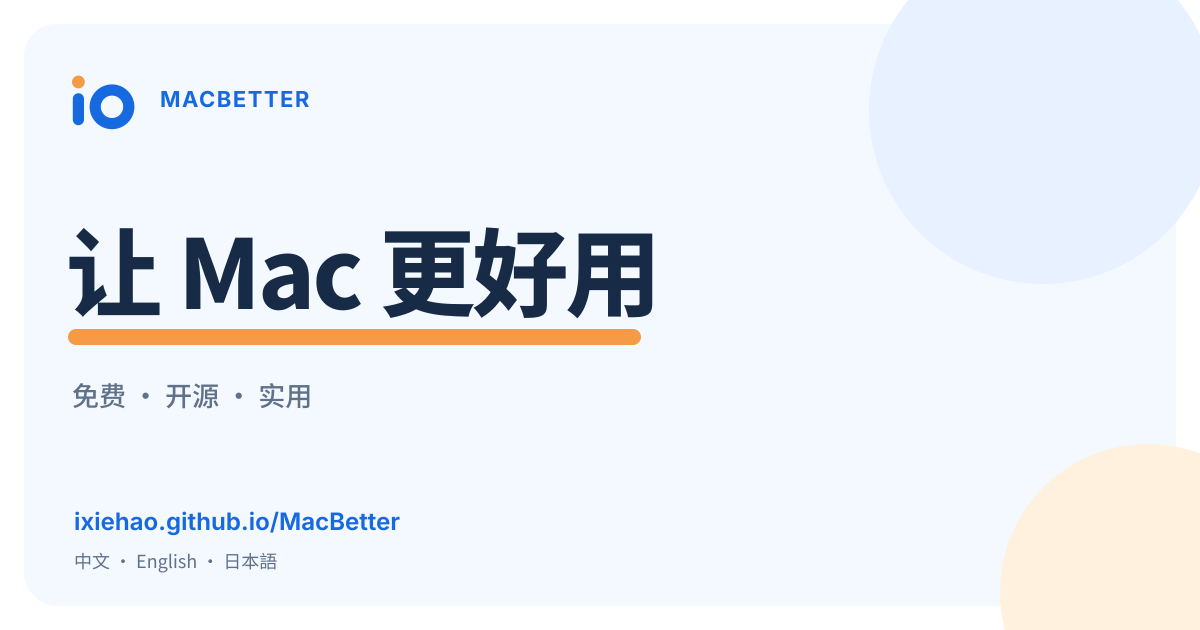
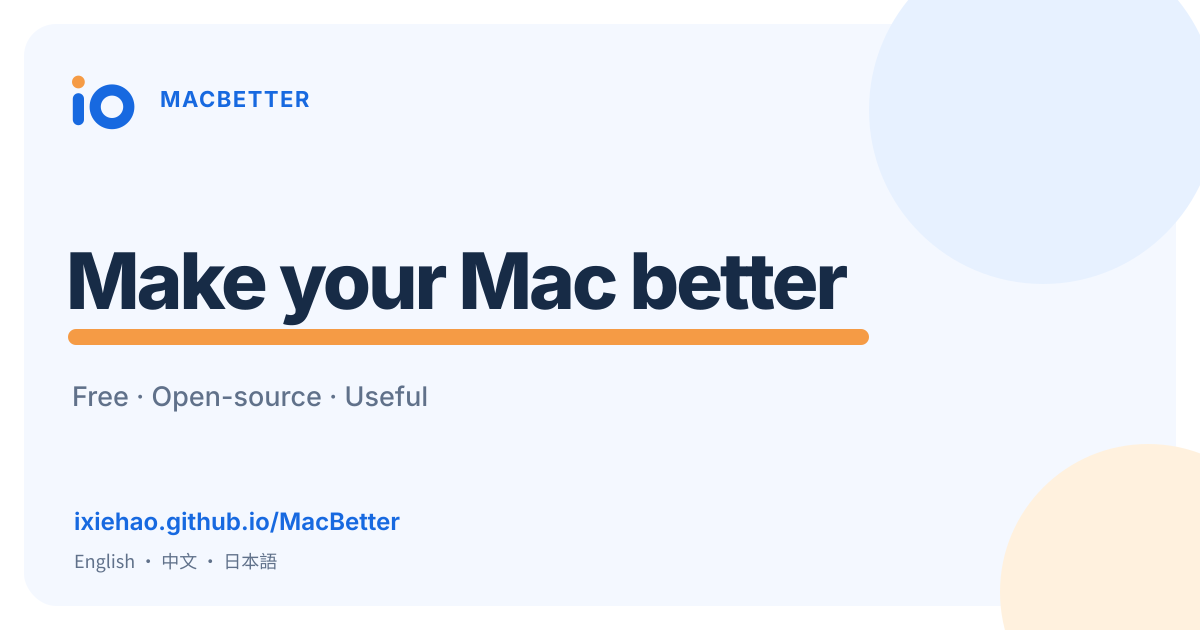
Make English the default website language

Changed region(s): [[0.0308, 0.3619, 0.74, 0.573], [0.0617, 0.6032, 0.37, 0.6635], [0.0617, 0.8746, 0.185, 0.9048]]

diff --git a/website/index.html b/website/index.html
@@ -1,62 +1,62 @@
 <!doctype html>
-<html lang="zh-CN">
+<html lang="en">
   <head>
     <meta charset="utf-8" />
     <meta name="viewport" content="width=device-width, initial-scale=1" />
     <meta name="theme-color" content="#1769e0" />
-    <meta name="description" content="一个由 Mac 用户共同维护的开源 macOS 软件目录：免费、开源、实用，并标明许可证、项目入口与关键权限。" />
+    <meta name="description" content="A maintained, practical directory of free and open-source macOS apps, with licenses, official links, and key permission notes." />
     <meta name="robots" content="index,follow" />
-    <title>让 Mac 更好用 · MAC免费开源软件</title>
+    <title>Make Your Mac Better · Open-Source macOS Apps</title>
     <link rel="canonical" href="https://ixiehao.github.io/MacBetter/" />
-    <link rel="alternate" hreflang="zh-CN" href="https://ixiehao.github.io/MacBetter/" />
-    <link rel="alternate" hreflang="en" href="https://ixiehao.github.io/MacBetter/?lang=en" />
+    <link rel="alternate" hreflang="zh-CN" href="https://ixiehao.github.io/MacBetter/?lang=zh" />
+    <link rel="alternate" hreflang="en" href="https://ixiehao.github.io/MacBetter/" />
     <link rel="alternate" hreflang="ja" href="https://ixiehao.github.io/MacBetter/?lang=ja" />
     <link rel="alternate" hreflang="x-default" href="https://ixiehao.github.io/MacBetter/" />
     <meta property="og:type" content="website" />
-    <meta property="og:site_name" content="让 Mac 更好用" />
-    <meta property="og:locale" content="zh_CN" />
+    <meta property="og:site_name" content="Make Your Mac Better" />
+    <meta property="og:locale" content="en_US" />
     <meta property="og:url" content="https://ixiehao.github.io/MacBetter/" />
-    <meta property="og:title" content="让 Mac 更好用 · MAC免费开源软件" />
-    <meta property="og:description" content="免费、开源、实用的 macOS 软件目录：标明许可证、项目入口与关键权限。" />
-    <meta property="og:image" content="https://ixiehao.github.io/MacBetter/assets/social-card.png?v=0ba486a273d8" />
+    <meta property="og:title" content="Make Your Mac Better · Open-Source macOS Apps" />
+    <meta property="og:description" content="A maintained, practical directory of free and open-source macOS apps, with licenses, official links, and key permission notes." />
+    <meta property="og:image" content="https://ixiehao.github.io/MacBetter/assets/social-card.png?v=5ddb92786990" />
     <meta property="og:image:width" content="1200" />
     <meta property="og:image:height" content="630" />
-    <meta property="og:image:alt" content="让 Mac 更好用：开源 macOS 软件目录" />
+    <meta property="og:image:alt" content="Make Your Mac Better · Open-Source macOS Apps" />
     <meta name="twitter:card" content="summary_large_image" />
-    <meta name="twitter:title" content="让 Mac 更好用 · MAC免费开源软件" />
-    <meta name="twitter:description" content="免费、开源、实用的 macOS 软件目录。" />
-    <meta name="twitter:image" content="https://ixiehao.github.io/MacBetter/assets/social-card.png?v=0ba486a273d8" />
-    <meta name="twitter:image:alt" content="让 Mac 更好用：开源 macOS 软件目录" />
+    <meta name="twitter:title" content="Make Your Mac Better · Open-Source macOS Apps" />
+    <meta name="twitter:description" content="A maintained, practical directory of free and open-source macOS apps, with licenses, official links, and key permission notes." />
+    <meta name="twitter:image" content="https://ixiehao.github.io/MacBetter/assets/social-card.png?v=5ddb92786990" />
+    <meta name="twitter:image:alt" content="Make Your Mac Better · Open-Source macOS Apps" />
     <link rel="icon" href="assets/favicon.ico?v=8e1fa67b8441" sizes="16x16 32x32 48x48" />
     <link rel="icon" href="assets/favicon-32.png?v=477145e2e865" type="image/png" sizes="32x32" />
     <link rel="apple-touch-icon" href="assets/favicon-180.png?v=a3d8e4df484e" sizes="180x180" />
     <link rel="icon" href="assets/favicon.svg?v=a3cf2091a95f" type="image/svg+xml" sizes="any" />
-    <link rel="manifest" href="site.webmanifest?v=924df44e6f8d" />
+    <link rel="manifest" href="site.webmanifest?v=8a213433e14f" />
     <link rel="preconnect" href="https://github.com" />
     <link rel="preload" href="assets/fonts/InterVariable.woff2?v=693b77d4f32e" as="font" type="font/woff2" crossorigin />
     <link rel="stylesheet" href="styles.css?v=8796e3af0f57" />
     <script id="site-schema" type="application/ld+json">
-      {"@context":"https://schema.org","@type":"WebSite","@id":"https://ixiehao.github.io/MacBetter/#website","url":"https://ixiehao.github.io/MacBetter/","name":"让 Mac 更好用","alternateName":["MAC免费开源软件","Make Your Mac Better","Macアプリ集"],"description":"一个由 Mac 用户共同维护的开源 macOS 软件目录。","inLanguage":["zh-CN","en","ja"],"publisher":{"@type":"Person","name":"iXiehao","url":"https://github.com/ixiehao"}}
+      {"@context":"https://schema.org","@type":"WebSite","@id":"https://ixiehao.github.io/MacBetter/#website","url":"https://ixiehao.github.io/MacBetter/","name":"Make Your Mac Better","alternateName":["MAC免费开源软件","Make Your Mac Better","Macアプリ集"],"description":"A maintained, practical directory of free and open-source macOS apps, with licenses, official links, and key permission notes.","inLanguage":["en","zh-CN","ja"],"publisher":{"@type":"Person","name":"iXiehao","url":"https://github.com/ixiehao"}}
     </script>
   </head>
   <body>
-    <a class="skip-link" href="#catalog" data-i18n="skipLink">跳到软件目录</a>
+    <a class="skip-link" href="#catalog" data-i18n="skipLink">Skip to app directory</a>
 
     <header class="site-header">
       <div class="shell nav-wrap">
-        <a class="wordmark" href="#top" aria-label="MAC免费开源软件，返回顶部" data-i18n-aria-label="wordmarkAria">
+        <a class="wordmark" href="#top" aria-label="Mac app directory — back to top" data-i18n-aria-label="wordmarkAria">
           <img class="wordmark-mark" src="assets/site-mark.svg?v=f0c52f0145bc" alt="" width="42" height="42" />
-          <span class="wordmark-copy"><span class="wordmark-name" data-i18n="wordmark">MAC免费开源软件</span><span class="wordmark-subtitle" data-i18n="brandMeaning">i 代表独立开发者，o 代表开源建设者。</span></span>
+          <span class="wordmark-copy"><span class="wordmark-name" data-i18n="wordmark">Free &amp; Open-Source Mac Apps</span><span class="wordmark-subtitle" data-i18n="brandMeaning">i for independent developer; o for open-source builder.</span></span>
         </a>
-        <nav aria-label="主导航" data-i18n-aria-label="navLabel">
-          <a class="nav-contribute" href="#contribute" data-i18n="navContribute">推荐软件</a>
-          <a href="#catalog" data-i18n="navCatalog">软件目录</a>
-          <a href="#standards" data-i18n="navStandards">开源说明</a>
-          <a class="nav-github" href="https://github.com/ixiehao/MacBetter" target="_blank" rel="noreferrer"><span data-i18n="navGithub">在 GitHub 共建</span><svg class="ui-icon" aria-hidden="true"><use href="assets/tabler-icons.svg#brand-github"></use></svg></a>
+        <nav aria-label="Page navigation" data-i18n-aria-label="navLabel">
+          <a class="nav-contribute" href="#contribute" data-i18n="navContribute">Recommend an app</a>
+          <a href="#catalog" data-i18n="navCatalog">All apps</a>
+          <a href="#standards" data-i18n="navStandards">Open-source guide</a>
+          <a class="nav-github" href="https://github.com/ixiehao/MacBetter" target="_blank" rel="noreferrer"><span data-i18n="navGithub">Contribute on GitHub</span><svg class="ui-icon" aria-hidden="true"><use href="assets/tabler-icons.svg#brand-github"></use></svg></a>
         </nav>
-        <div class="language-switcher" role="group" aria-label="选择语言" data-i18n-aria-label="languageLabel">
-          <button type="button" data-language="en" lang="en" aria-pressed="false">EN</button>
-          <button type="button" data-language="zh" lang="zh-CN" aria-pressed="true">中</button>
+        <div class="language-switcher" role="group" aria-label="Choose language" data-i18n-aria-label="languageLabel">
+          <button type="button" data-language="en" lang="en" aria-pressed="true">EN</button>
+          <button type="button" data-language="zh" lang="zh-CN" aria-pressed="false">中</button>
           <button type="button" data-language="ja" lang="ja" aria-pressed="false">日</button>
         </div>
         <p class="visually-hidden" id="language-status" aria-live="polite"></p>
@@ -67,12 +67,12 @@
       <section class="hero-band" id="contribute">
         <div class="shell hero-layout">
           <div class="hero-copy">
-            <p class="eyebrow" data-i18n="communityEyebrow">共同推荐</p>
-            <h1 data-i18n="communityHeading">让 Mac 更好用</h1>
-            <p class="community-copy" data-i18n="communityCopy">从推荐一款你真正用过的开源软件开始。</p>
-            <div class="hero-stats" aria-label="目录概况" data-i18n-aria-label="heroStatsLabel">
-              <div><strong id="app-total">88</strong><span data-i18n="statApps">款开源软件</span></div>
-              <div><strong id="category-total">9</strong><span data-i18n="statCategories">个用途分类</span></div>
+            <p class="eyebrow" data-i18n="communityEyebrow">macOS · OPEN-SOURCE APP DIRECTORY</p>
+            <h1 data-i18n="communityHeading">Make your Mac better</h1>
+            <p class="community-copy" data-i18n="communityCopy">Free, open-source apps organized by task—with official links, licenses, and real-world notes.</p>
+            <div class="hero-stats" aria-label="Directory overview" data-i18n-aria-label="heroStatsLabel">
+              <div><strong id="app-total">88</strong><span data-i18n="statApps">open-source apps</span></div>
+              <div><strong id="category-total">9</strong><span data-i18n="statCategories">useful categories</span></div>
             </div>
           </div>
           <aside class="submit-card" aria-labelledby="submit-heading">
@@ -80,17 +80,17 @@
               <span class="submit-icon" aria-hidden="true">
                 <svg class="ui-icon" aria-hidden="true"><use href="assets/tabler-icons.svg#pencil"></use></svg>
               </span>
-              <div><p class="submit-kicker" data-i18n="submitKicker">社区共建</p><h2 id="submit-heading" data-i18n="submitHeading">好工具，等你推荐。</h2></div>
+              <div><p class="submit-kicker" data-i18n="submitKicker">COMMUNITY PICKS</p><h2 id="submit-heading" data-i18n="submitHeading">Know a good Mac app?</h2></div>
             </div>
-            <p class="submit-copy" data-i18n="communityInstructions">提交项目链接、许可证和真实使用场景，我们会核对公开信息。</p>
+            <p class="submit-copy" data-i18n="communityInstructions">Share the project link, license, and the problem it solves. We check public details before listing.</p>
             <div class="community-action">
-              <a class="button button-community" href="https://github.com/ixiehao/MacBetter/issues/new?template=recommend-an-app.yml" target="_blank" rel="noreferrer"><span data-i18n="recommendApp">推荐一款软件</span><svg class="ui-icon" aria-hidden="true"><use href="assets/tabler-icons.svg#message-plus"></use></svg></a>
-              <a class="community-rules" href="https://github.com/ixiehao/MacBetter/blob/main/CONTRIBUTING.md" target="_blank" rel="noreferrer"><span data-i18n="viewCriteria">收录标准</span><svg class="ui-icon" aria-hidden="true"><use href="assets/tabler-icons.svg#list-check"></use></svg></a>
+              <a class="button button-community" href="https://github.com/ixiehao/MacBetter/issues/new?template=recommend-an-app.yml" target="_blank" rel="noreferrer"><span data-i18n="recommendApp">Recommend an app</span><svg class="ui-icon" aria-hidden="true"><use href="assets/tabler-icons.svg#message-plus"></use></svg></a>
+              <a class="community-rules" href="https://github.com/ixiehao/MacBetter/blob/main/CONTRIBUTING.md" target="_blank" rel="noreferrer"><span data-i18n="viewCriteria">View submission criteria</span><svg class="ui-icon" aria-hidden="true"><use href="assets/tabler-icons.svg#list-check"></use></svg></a>
             </div>
-            <ul class="contribution-steps" aria-label="推荐软件需要的信息" data-i18n-aria-label="contributionStepsLabel">
-              <li><span>01</span><strong data-i18n="contribution.sourceTitle">项目地址</strong></li>
-              <li><span>02</span><strong data-i18n="contribution.licenseTitle">开源许可证</strong></li>
-              <li><span>03</span><strong data-i18n="contribution.reasonTitle">推荐理由</strong></li>
+            <ul class="contribution-steps" aria-label="What to include with an app recommendation" data-i18n-aria-label="contributionStepsLabel">
+              <li><span>01</span><strong data-i18n="contribution.sourceTitle">Project source</strong></li>
+              <li><span>02</span><strong data-i18n="contribution.licenseTitle">Open-source license</strong></li>
+              <li><span>03</span><strong data-i18n="contribution.reasonTitle">Why you recommend it</strong></li>
             </ul>
           </aside>
         </div>
@@ -100,34 +100,34 @@
         <div class="shell catalog-shell">
           <div class="section-heading catalog-heading">
             <div>
-              <p class="eyebrow" data-i18n="catalogEyebrow">开源 Mac 软件</p>
-              <h2 data-i18n="catalogHeading">软件目录</h2>
+              <p class="eyebrow" data-i18n="catalogEyebrow">Open-source Mac apps</p>
+              <h2 data-i18n="catalogHeading">App directory</h2>
             </div>
-            <p data-i18n="catalogCopy">按用途查找；每项标明许可证与 io 实测状态。</p>
+            <p data-i18n="catalogCopy">Browse by task. Each listing shows its license and whether io has tested it.</p>
           </div>
 
-          <div class="catalog-controls" role="search" aria-label="搜索和筛选软件" data-i18n-aria-label="catalogControlsLabel">
+          <div class="catalog-controls" role="search" aria-label="Search and filter apps" data-i18n-aria-label="catalogControlsLabel">
             <label class="search-box" for="search-input">
               <svg class="ui-icon" aria-hidden="true"><use href="assets/tabler-icons.svg#search"></use></svg>
-              <input id="search-input" type="search" autocomplete="off" placeholder="搜索名称、用途或标签" aria-label="搜索软件目录" aria-keyshortcuts="Meta+K Control+K" data-i18n-placeholder="searchPlaceholder" data-i18n-aria-label="searchLabel" />
+              <input id="search-input" type="search" autocomplete="off" placeholder="Search apps, features, or tags" aria-label="Search the app directory" aria-keyshortcuts="Meta+K Control+K" data-i18n-placeholder="searchPlaceholder" data-i18n-aria-label="searchLabel" />
               <kbd>⌘ K</kbd>
             </label>
-            <label class="status-filter" for="tested-filter"><input id="tested-filter" type="checkbox" /> <span class="status-dot" aria-hidden="true"></span><span data-i18n="testedFilter">仅显示 io 实测</span></label>
+            <label class="status-filter" for="tested-filter"><input id="tested-filter" type="checkbox" /> <span class="status-dot" aria-hidden="true"></span><span data-i18n="testedFilter">Show apps tested by io</span></label>
           </div>
 
-          <div class="filter-row" id="category-filters" role="group" aria-label="软件分类" data-i18n-aria-label="appCategoriesLabel"></div>
+          <div class="filter-row" id="category-filters" role="group" aria-label="App categories" data-i18n-aria-label="appCategoriesLabel"></div>
           <div class="results-heading">
             <p class="result-count" id="result-count" aria-live="polite"></p>
             <div class="catalog-actions">
-              <button class="results-share" id="share-directory" type="button"><svg class="ui-icon" aria-hidden="true"><use href="assets/tabler-icons.svg#share"></use></svg><span data-i18n="shareDirectory">分享目录</span></button>
-              <a class="results-recommend" href="https://github.com/ixiehao/MacBetter/issues/new?template=recommend-an-app.yml" target="_blank" rel="noreferrer"><span data-i18n="recommendInline">推荐一款好软件</span><svg class="ui-icon" aria-hidden="true"><use href="assets/tabler-icons.svg#message-plus"></use></svg></a>
+              <button class="results-share" id="share-directory" type="button"><svg class="ui-icon" aria-hidden="true"><use href="assets/tabler-icons.svg#share"></use></svg><span data-i18n="shareDirectory">Share directory</span></button>
+              <a class="results-recommend" href="https://github.com/ixiehao/MacBetter/issues/new?template=recommend-an-app.yml" target="_blank" rel="noreferrer"><span data-i18n="recommendInline">Recommend an app</span><svg class="ui-icon" aria-hidden="true"><use href="assets/tabler-icons.svg#message-plus"></use></svg></a>
             </div>
           </div>
           <p class="visually-hidden" id="share-status" role="status" aria-live="polite"></p>
           <div class="app-grid" id="app-grid"></div>
           <div class="empty-state" id="empty-state" hidden>
-            <p data-i18n="emptyState">没有找到匹配的软件。</p>
-            <button class="text-button" id="clear-filters" data-i18n="clearFilters">清除筛选条件</button>
+            <p data-i18n="emptyState">No matching apps found.</p>
+            <button class="text-button" id="clear-filters" data-i18n="clearFilters">Clear filters</button>
           </div>
         </div>
       </section>
@@ -135,9 +135,9 @@
       <section class="method section" id="standards">
         <div class="shell standards-compact">
           <div class="method-intro">
-            <p class="eyebrow" data-i18n="standardsEyebrow">开源说明</p>
-            <h2 data-i18n="standardsHeading">常见许可证，怎么理解</h2>
-            <p class="standards-copy" data-i18n="standardsCopy">下列为当前目录实际出现的许可证；具体权利与义务以项目仓库中的 LICENSE 为准。</p>
+            <p class="eyebrow" data-i18n="standardsEyebrow">Open-source basics</p>
+            <h2 data-i18n="standardsHeading">Common licenses, plainly explained</h2>
+            <p class="standards-copy" data-i18n="standardsCopy">These are the licenses currently used by apps in this directory. Always defer to each project’s LICENSE for the exact terms.</p>
           </div>
           <ol class="standards-list" id="standards-list"></ol>
         </div>
@@ -147,10 +147,10 @@
 
     <footer class="site-footer">
       <div class="shell footer-inner">
-        <p><img class="wordmark-mark footer-mark" src="assets/site-mark.svg?v=f0c52f0145bc" alt="" width="24" height="24" /> <span data-i18n="footerMaintained">由 iXiehao 维护，欢迎通过 GitHub 一起完善。</span></p>
-        <p><span data-i18n="footerRights">第三方商标、名称和图标归各自权利人所有。</span><a href="https://github.com/ixiehao/MacBetter" target="_blank" rel="noreferrer"><span data-i18n="footerSource">查看源代码</span><svg class="ui-icon" aria-hidden="true"><use href="assets/tabler-icons.svg#brand-github"></use></svg></a></p>
+        <p><img class="wordmark-mark footer-mark" src="assets/site-mark.svg?v=f0c52f0145bc" alt="" width="24" height="24" /> <span data-i18n="footerMaintained">Maintained by iXiehao. Help improve it on GitHub.</span></p>
+        <p><span data-i18n="footerRights">All third-party names, trademarks, and icons belong to their respective owners.</span><a href="https://github.com/ixiehao/MacBetter" target="_blank" rel="noreferrer"><span data-i18n="footerSource">View source code</span><svg class="ui-icon" aria-hidden="true"><use href="assets/tabler-icons.svg#brand-github"></use></svg></a></p>
       </div>
     </footer>
-    <script type="module" src="app.js?v=60fa6ad98ce8"></script>
+    <script type="module" src="app.js?v=1f13afb17fae"></script>
   </body>
 </html>

diff --git a/website/app.js b/website/app.js
@@ -25,6 +25,7 @@ const workflowOrder = {
   efficiency: ["firefox", "zen-browser", "github-desktop", "vscodium", "zed", "codeedit", "xcodes", "alacritty", "dbeaver", "tablepro", "bruno", "kilobat-cli", "utm", "espanso", "hammerspoon", "swiftbar"]
 };
 const siteURL = "https://ixiehao.github.io/MacBetter/";
+const defaultLanguage = "en";
 const languageStorageKey = "MacBetter-language";
 const legacyLanguageStorageKey = "mac-better-language";
 const ogLocales = { zh: "zh_CN", en: "en_US", ja: "ja_JP" };
@@ -476,8 +477,9 @@ const appCopy = {
   }
 };
 
-let activeLanguage = new URLSearchParams(location.search).get("lang") || localStorage.getItem(languageStorageKey) || localStorage.getItem(legacyLanguageStorageKey) || "zh";
-if (!copy[activeLanguage]) activeLanguage = "zh";
+let activeLanguage = new URLSearchParams(location.search).get("lang") || localStorage.getItem(languageStorageKey) || localStorage.getItem(legacyLanguageStorageKey) || defaultLanguage;
+if (!copy[activeLanguage]) activeLanguage = defaultLanguage;
+localStorage.setItem(languageStorageKey, activeLanguage);
 let activeCategory = new URLSearchParams(location.search).get("category") || "all";
 if (!categories.includes(activeCategory)) activeCategory = "all";
 let apps = [];
@@ -499,7 +501,7 @@ function valueAt(object, path) {
 }
 
 function t(path, parameters = {}) {
-  const fallback = valueAt(copy.zh, path);
+  const fallback = valueAt(copy[defaultLanguage], path);
   const value = valueAt(copy[activeLanguage], path) ?? fallback ?? path;
   return String(value).replace(/\{(\w+)\}/g, (_, key) => parameters[key] ?? `{${key}}`);
 }
@@ -617,7 +619,7 @@ function updateURL() {
   else url.searchParams.delete("tested");
   if (searchInput.value.trim()) url.searchParams.set("q", searchInput.value.trim());
   else url.searchParams.delete("q");
-  if (activeLanguage === "zh") url.searchParams.delete("lang");
+  if (activeLanguage === defaultLanguage) url.searchParams.delete("lang");
   else url.searchParams.set("lang", activeLanguage);
   history.replaceState({}, "", url);
 }
@@ -643,8 +645,8 @@ function restoreURLState() {
   activeCategory = categories.includes(params.get("category")) ? params.get("category") : "all";
   searchInput.value = params.get("q") || "";
   testedFilter.checked = params.get("tested") === "1";
-  const requestedLanguage = params.get("lang") || localStorage.getItem(languageStorageKey) || localStorage.getItem(legacyLanguageStorageKey) || "zh";
-  activeLanguage = copy[requestedLanguage] ? requestedLanguage : "zh";
+  const requestedLanguage = params.get("lang") || localStorage.getItem(languageStorageKey) || localStorage.getItem(legacyLanguageStorageKey) || defaultLanguage;
+  activeLanguage = copy[requestedLanguage] ? requestedLanguage : defaultLanguage;
   localStorage.setItem(languageStorageKey, activeLanguage);
   applyStaticCopy();
   renderFilters();
@@ -667,7 +669,7 @@ function setMetaContent(selector, value) {
 
 function updateMetadata() {
   const canonicalURL = new URL(siteURL);
-  if (activeLanguage !== "zh") canonicalURL.searchParams.set("lang", activeLanguage);
+  if (activeLanguage !== defaultLanguage) canonicalURL.searchParams.set("lang", activeLanguage);
   const canonical = canonicalURL.toString();
   const title = t("pageTitle");
   const description = t("pageDescription");

diff --git a/docs/WEBSITE.md b/docs/WEBSITE.md
@@ -9,6 +9,13 @@
 - 部署流程：[`deploy-pages.yml`](../.github/workflows/deploy-pages.yml)。
 - 软件库：[`website/data/apps.json`](../website/data/apps.json)。
 
+## 语言
+
+- 官网默认英语；初始 HTML、元数据、manifest 与无语言参数的标准 URL 均以英语为准。
+- 语言优先级：URL 中的 `lang` → 已保存的语言选择 → 英语。不按浏览器语言自动切换；不支持的语言回退到英语。
+- 中文直达链接为 `?lang=zh`，日语为 `?lang=ja`；旧版 `?lang=en` 链接继续可用。语言按钮顺序为 EN、中、日。
+- 社区回复与对外交流优先使用英语；需要时补充中文或日语说明。
+
 ## 网页图标
 
 - 网页界面图标统一使用 [`assets/tabler-icons.svg`](../website/assets/tabler-icons.svg) 中的 Tabler Icons Outline v3.49.0；新增界面图标时从同一版本选取，使用 `<svg class="ui-icon" aria-hidden="true"><use href="assets/tabler-icons.svg#icon-name"></use></svg>`。
